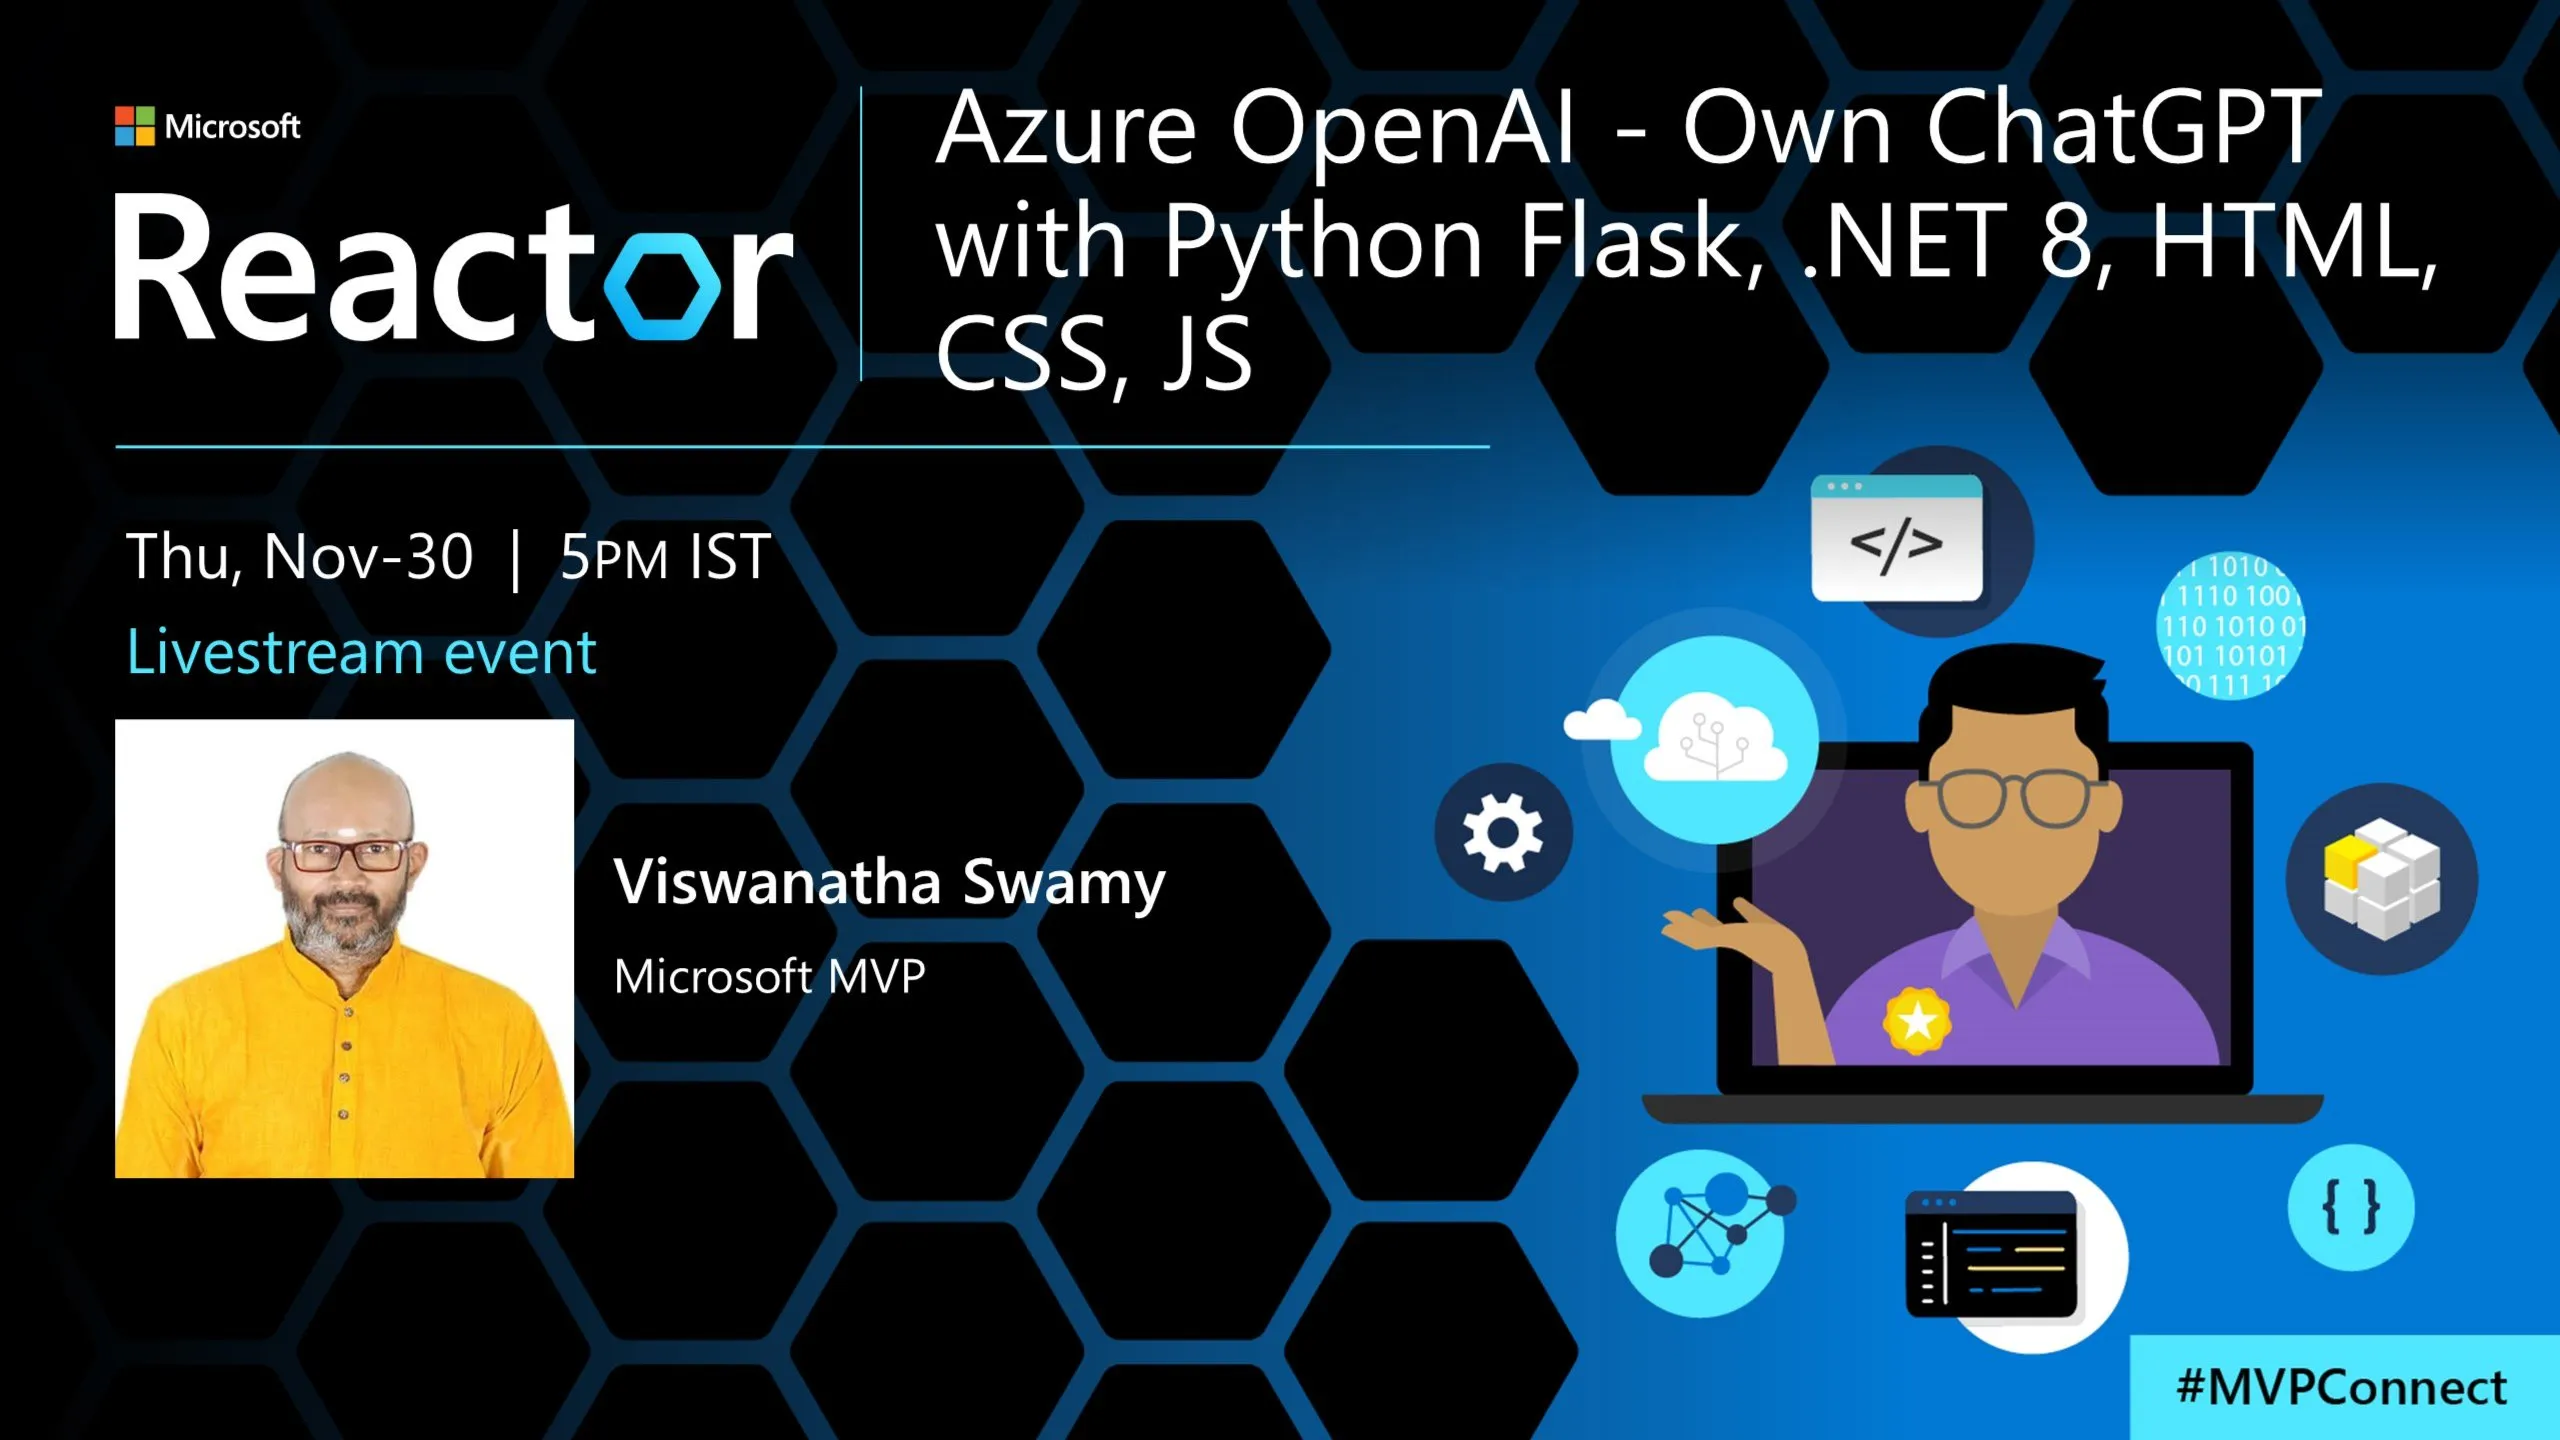
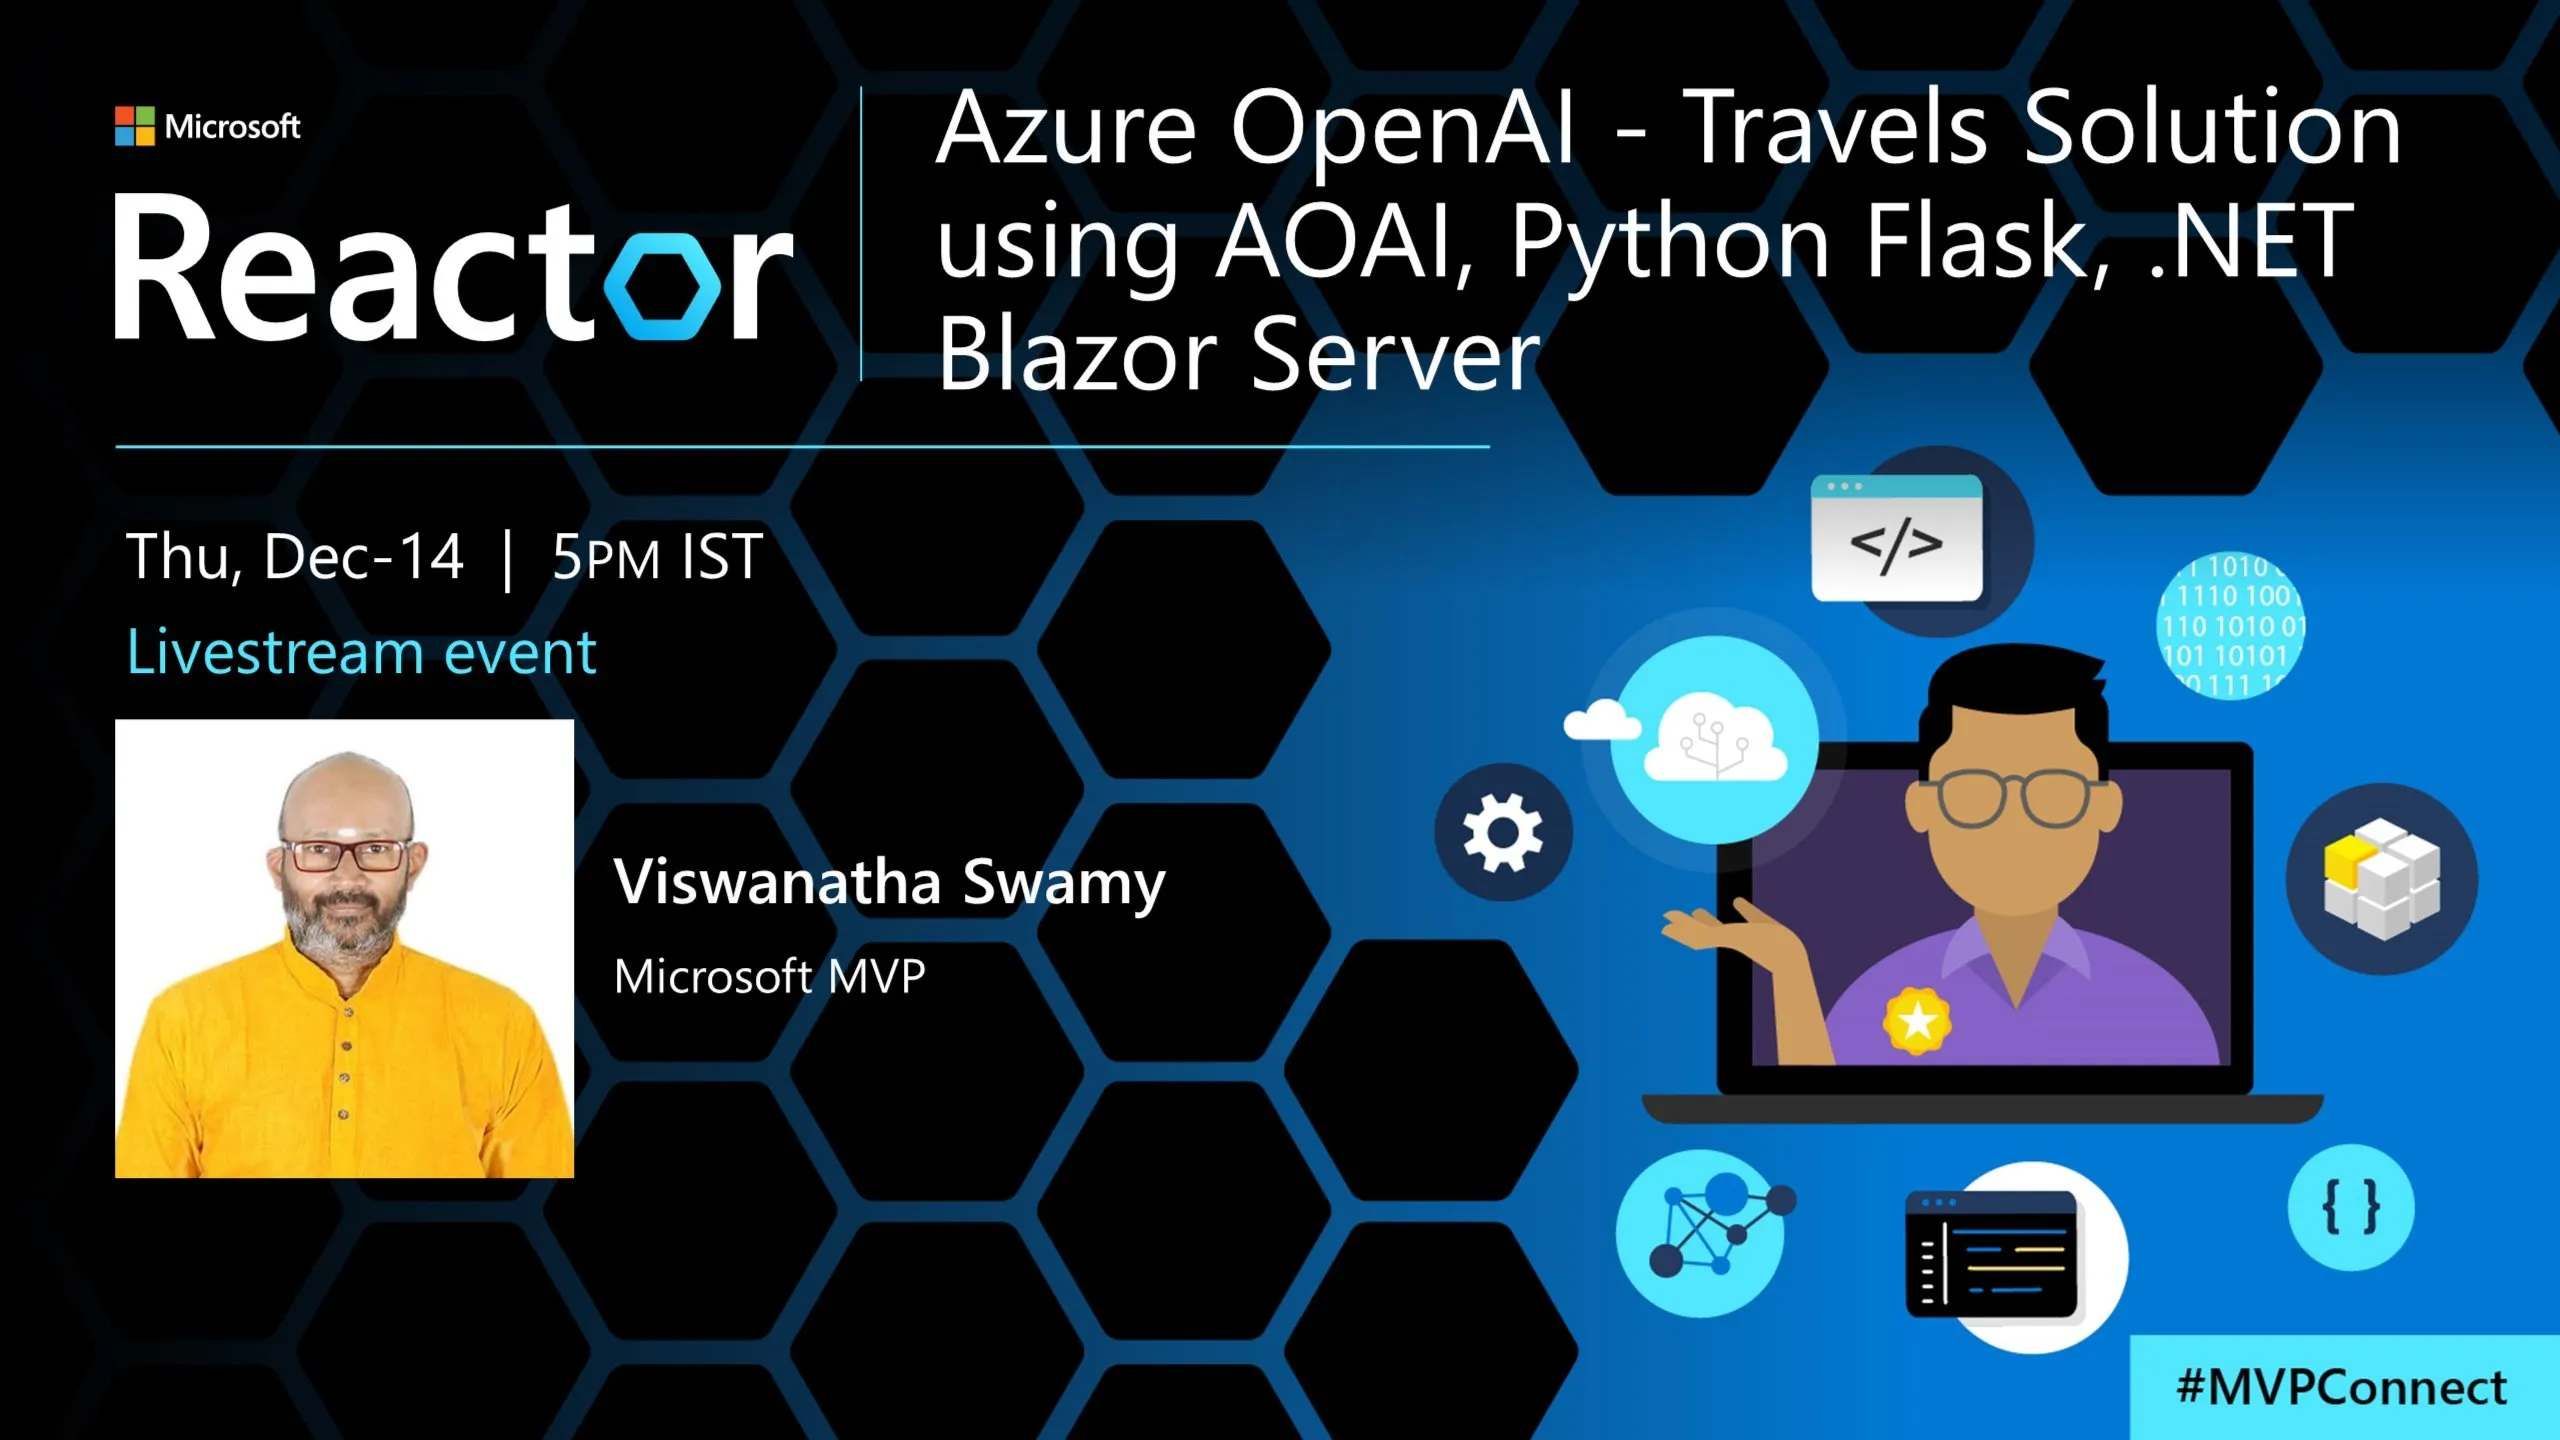
Removed unwanted files

Changed region(s): [[0.3438, 0.0625, 0.9375, 0.2812], [0.0938, 0.375, 0.3125, 0.4062]]

diff --git a/microsoft-reactor/20231214_AOAI_Travells/README.md b/microsoft-reactor/20231214_AOAI_Travells/README.md
@@ -1,10 +1,10 @@
-# Hands-On - Own ChatGPT with .NET 8, Python Flask, HTML, CSS, JavaScript
+# Azure OpenAI - Travels Solution using AOAI, Python Flask, .NET Blazor Server
 
-## Date Time: 29-Nov-2023 at 05:00 PM IST
+## Date Time: 14-Dec-2023 at 05:00 PM IST
 
-## Event URL: [https://www.meetup.com/microsoft-reactor-bengaluru/events/297192089](https://www.meetup.com/microsoft-reactor-bengaluru/events/297192089)
+## Event URL: [https://www.meetup.com/microsoft-reactor-bengaluru/events/297372481](https://www.meetup.com/microsoft-reactor-bengaluru/events/297372481)
 
-## YouTube URL: [https://www.youtube.com/watch?v=kWarjsg6PfM](https://www.youtube.com/watch?v=kWarjsg6PfM)
+## YouTube URL: [https://www.youtube.com/watch?v=ToBeDone](https://www.youtube.com/watch?v=ToBeDone)
 
 ![Viswanatha Swamy P K |150x150](./Documentation/Images/ViswanathaSwamyPK.PNG)
 
@@ -32,17 +32,10 @@
 
 ## What are we doing today?
 
-> 1. What is Intelligence?
-> 1. Few Terms AI, ML, Auto ML, DL, NLP, GAI
-> 1. ELIZA - The early Natural Language Processing (NLP) Chatbot
-> 1. Azure Open AI, Transformer, and GPT
-> 1. Tokens Tokens Tokens and more Tokens
-> 1. Trying our own Completion Examples in Azure AI Studio
-> 1. Completion Request using C# .NET 8
-> 1. Few .NET and .NET 8 Features
-> 1. Create a .env file and update the Environment Variables
-> 1. Our Own ChatGPT with .NET 8, Azure Open AI, HTML, CSS, and JS
-> 1. Our Own ChatGPT with Python Flask, Azure Open AI, HTML, CSS, and JS
+> 1. Creating a Python Flask API to Interact with Azure Open AI
+> 1. Test Python Flask API using Postman
+> 1. Creating a Blazor Server Admin Application
+> 1. Integrate Blazor Server Admin Application with Python Flask API
 > 1. SUMMARY / RECAP / Q&A
 > 1. What is next ?
 
@@ -54,70 +47,39 @@
 
 ---
 
-## 1. What is Intelligence?
+## The Big Picture
 
-> 1. Discussion
+> 1. Discussion on what we are going to do today.
 
-## 2. Few Terms AI, ML, Auto ML, DL, NLP, GAI
+![Architecture | 100x100](./Documentation/Images/Architecture_V1.PNG)
 
-> 1. Discussion
+## 1. Creating a Python Flask API to Interact with Azure Open AI
 
-## 3. ELIZA - The early Natural Language Processing (NLP) Chatbot
+> 1. Python Flask API
+> 1. Python Flask Web API Project Structure
 
-> 1. Discussion
+### 1.1 Python Flask API
 
-## 4. Azure Open AI, Transformer, and GPT
+#### Lightweight and Easy to Use
 
-> 1. Discussion
+> 1. Flask is a lightweight web framework for Python that is designed to be simple and easy to use. It provides the essentials needed for building web applications without unnecessary complexity. This simplicity makes it an excellent choice for beginners and for projects where a minimalistic approach is preferred.
 
-## 5. Tokens Tokens Tokens and more Tokens
+#### Extensible and Modular
 
-> 1. Discussion and Demo
+> 1. Flask follows a modular design, allowing developers to use only the components they need. It is extensible, meaning that you can add various extensions to enhance its functionality, such as authentication, database integration, and more. This modular and extensible nature makes Flask flexible and adaptable to different project requirements.
 
-## [**Section 1 to 5 Documentation**](https://github.com/ViswanathaSwamy-PK-TechSkillz-Academy/learn-azure-openai/blob/main/documentation/S2.md)
+### 1.2. Python Flask Web API Project Structure
 
-## 6. Trying our own Completion Examples in Azure AI Studio
+> 1. `api_routes.py`: This file contains API routes and handling for adding country information.
+> 1. `models.py`: This file defines the SQLAlchemy database model for the CountryInfoDto table.
+> 1. `db_config.py`: This file contains the SQLAlchemy database configuration using the db object.
+> 1. `env_config.py`: This file handles loading environment variables from the .env file.
+> 1. `error_handling.py`: This file contains the utility function for handling error responses.
+> 1. `GetCountryInfoFromAzureOpenAI.py`: This file handles integration with Azure OpenAI to fetch country information.
+> 1. `logging_config.py`: This file configures logging settings for the Flask app.
+> 1. `app.py`: This file is the entry point of the Flask application and sets up the app with configurations.
 
-> 1. Discussion and Demo
-
-```text
-Input: Happy Birthday
-
-Input: Give the top 5 food items from South India
-
-Input: Give the top 5 Populated states in India
-
-Inputs: 
-1. Which is the tallest building in the world 
-2. Which is the tallest building in Hyderabad
-
-Input: Tell me two jokes on simple people
-```
-
-![Own Completion Requests | 100x100](./Documentation/Images/OwnCompletionRequest.PNG)
-
-## [**Section 6 Documentation**](https://github.com/vishipayyallore/speaker-series-2023/blob/main/AzureOpenAI/2023Jul05_Prompt_Engineering_Part1/README.md)
-
-## 7. Completion Request using C# .NET 8
-
-> 1. Discussion and Demo
-
-## [**Section 7 Documentation**](https://github.com/ViswanathaSwamy-PK-TechSkillz-Academy/learn-azure-openai/blob/main/documentation/S2.md)
-
-## 8. Few .NET and .NET 8 Features
-
-> 1. JIT Compilation [Source Code (.cs, and .vb) -> Roslyn Compiler -> Intermediate Language -> JIT Compiler -> Machine Code]
-> 1. Dependency Injection
-> 1. Http Request pipeline
-> 1. Implicit usings and Global using
-> 1. File Scoped Namespaces
-> 1. ShortCircuiting
-> 1. Debugging Improvements
-> 1. .http files
-
-## 9. Create a appsettings.json / .env file and update the Environment Variables
-
-> 1. Discussion and Demo
+![Python Flask Web API Project Structure | 100x100](./Documentation/Images/PythonFlaskAPI_Structure.PNG)
 
 ## 10. Our Own ChatGPT with .NET 8, Azure Open AI, HTML, CSS, and JavaScript
 
